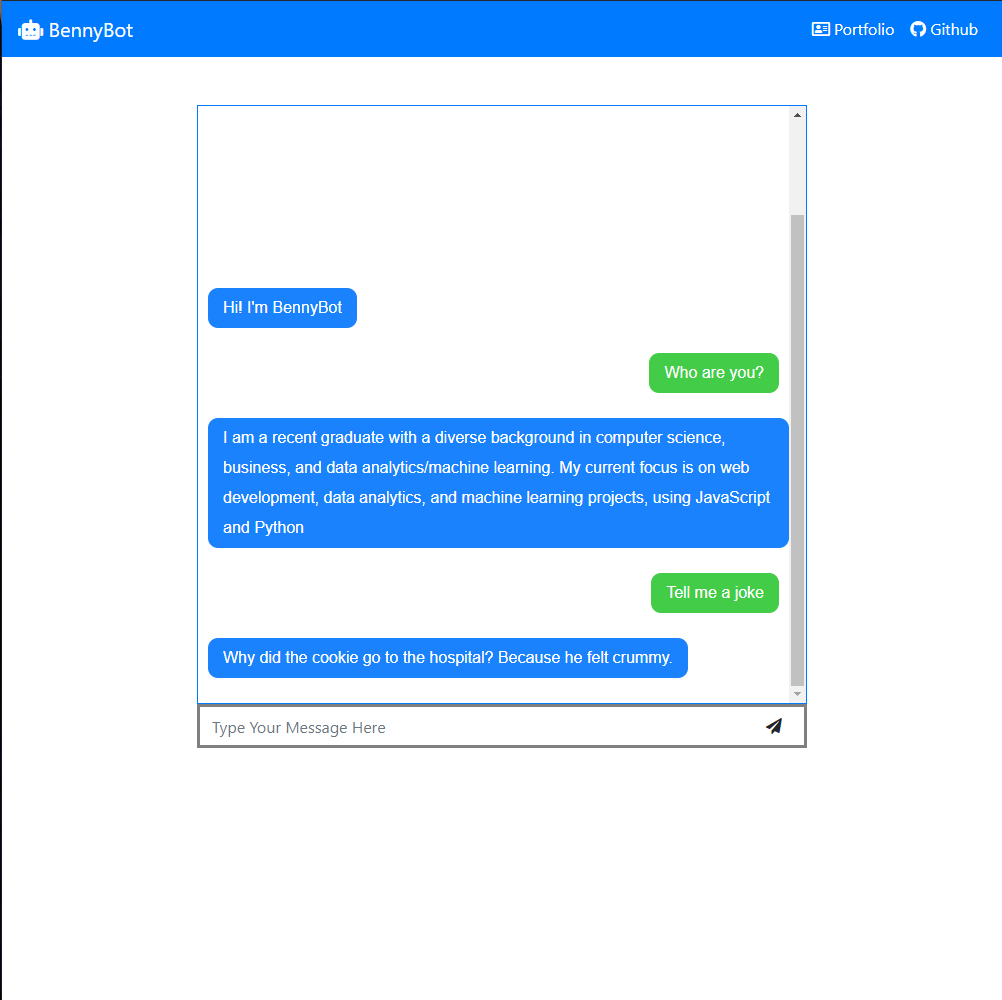
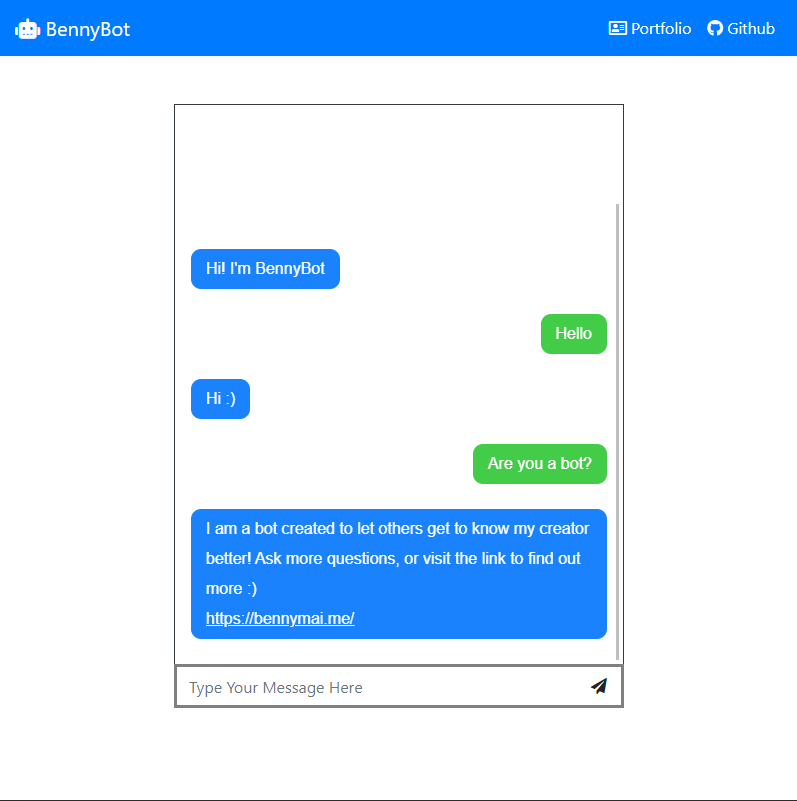
fix chatbot design

diff --git a/src/Components/Portfolio.js b/src/Components/Portfolio.js
@@ -1,49 +1,77 @@
-import React, { Component } from 'react';
+import React, { Component } from "react";
 
 class Portfolio extends Component {
   render() {
-
     if (this.props.data) {
       var projects = this.props.data.projects.map(function (projects, index) {
-        var projectImage = 'images/portfolio/' + projects.image;
+        var projectImage = "images/portfolio/" + projects.image;
         // original
         // return <div key={projects.title} className="columns portfolio-item">
         //  clear float after 3rd item, restart new line
-        return <div key={projects.title} className="columns portfolio-item" style={
-          index === 3 ? { clear: 'both', float: 'left', display: 'block' } : {}
-        }>
-          <div className="item-wrap">
-            <a href={projects.url} title={projects.title} target="_blank">
-              <img alt={projects.title} src={projectImage} />
-              <div className="overlay">
-                <div className="portfolio-item-meta">
-                  <h5 style={{ position: 'absolute', top: '15px', left:"15px", fontSize: '30px' }}>{projects.title}</h5>
-                  <div style={{ position: 'absolute', bottom: '15px', right: '15px'}}>
-                    {
-                      projects.category.map(pc => <p style={{ textAlign: 'right', fontSize: '20px', margin: '5px' }}>{pc}</p>)
-                    }
+        return (
+          <div
+            key={projects.title}
+            className='columns portfolio-item'
+            style={index === 3 ? { clear: "both" } : {}}
+          >
+            <div className='item-wrap'>
+              <a href={projects.url} title={projects.title} target='_blank'>
+                <img alt={projects.title} src={projectImage} />
+                <div className='overlay'>
+                  <div className='portfolio-item-meta'>
+                    <h5
+                      style={{
+                        position: "absolute",
+                        top: "15px",
+                        left: "15px",
+                        fontSize: "30px",
+                      }}
+                    >
+                      {projects.title}
+                    </h5>
+                    <div
+                      style={{
+                        position: "absolute",
+                        bottom: "15px",
+                        right: "15px",
+                      }}
+                    >
+                      {projects.category.map((pc) => (
+                        <p
+                          style={{
+                            textAlign: "right",
+                            fontSize: "20px",
+                            margin: "5px",
+                          }}
+                        >
+                          {pc}
+                        </p>
+                      ))}
+                    </div>
                   </div>
                 </div>
-              </div>
-              <div className="link-icon"><i className="fa fa-link"></i></div>
-            </a>
+                <div className='link-icon'>
+                  <i className='fa fa-link'></i>
+                </div>
+              </a>
+            </div>
           </div>
-        </div>
-      })
+        );
+      });
     }
 
     return (
-      <section id="portfolio">
-
-        <div className="row">
-
-          <div className="twelve columns collapsed ">
-
+      <section id='portfolio'>
+        <div className='row'>
+          <div className='twelve columns collapsed '>
             <h1>Check Out Some of My Projects</h1>
 
             {/* change bgrid-_____ for number items per row */}
             {/* <div id="portfolio-wrapper" className="bgrid-halves s-bgrid-halves cf"> */}
-            <div id="portfolio-wrapper" className="bgrid-thirds s-bgrid-thirds cf">
+            <div
+              id='portfolio-wrapper'
+              className='bgrid-thirds s-bgrid-thirds cf'
+            >
               {/* <div id="portfolio-wrapper" className="bgrid-quarters s-bgrid-quarters cf"> */}
               {projects}
             </div>

diff --git a/src/Components/Chat.js b/src/Components/Chat.js
@@ -28,14 +28,16 @@ export default () => {
               </head>
             </iframe>
           </div>
-          <button
-            className='mobile-close-chat-btn'
-            onClick={() => {
-              setShowChat(false);
-            }}
-          >
-            Close Chat
-          </button>
+          <div className='chatbot-footer'>
+            <button
+              className='mobile-close-chat-btn'
+              onClick={() => {
+                setShowChat(false);
+              }}
+            >
+              Close Chat
+            </button>
+          </div>
         </>
       ) : null}
 
@@ -46,15 +48,18 @@ export default () => {
         onClick={() => {
           setShowChat(!showChat);
         }}
+        style={{
+          display: isSmallScreen && showChat ? "none" : "block",
+        }}
       >
         {!showChat ? (
           <>
             {/* made by surang at https://www.flaticon.com/ */}
             <img className='chatbot-image' src={chatbot} />
           </>
-        ) : !isSmallScreen ? (
+        ) : (
           "Close Chat"
-        ) : null}
+        )}
       </button>
 
       {!isSmallScreen ? (

diff --git a/src/App.css b/src/App.css
@@ -1,6 +1,7 @@
 .chatbot {
-  height: 815px;
-  width: 375px;
+  background-color: white;
+  height: 750px;
+  width: 450px;
   position: fixed;
   bottom: 25px;
   right: 150px;
@@ -24,7 +25,7 @@
   transform: translateY(5px);
 }
 
-.mobile-close-chat-btn {
+.chatbot-footer {
   display: none;
 }
 
@@ -40,12 +41,22 @@
     border: none;
   }
 
-  .mobile-close-chat-btn {
+  .chatbot-footer {
     display: block;
     position: fixed;
     bottom: 0;
     height: 10%;
     width: 100%;
+    background-color: white;
+    border-top: 2px solid grey;
+  }
+
+  .mobile-close-chat-btn {
+    position: fixed;
+    bottom: 2%;
+    height: 6%;
+    left: 12.5%;
+    width: 75%;
     z-index: 9999;
     background-color: #1982fc;
     margin: 0;
